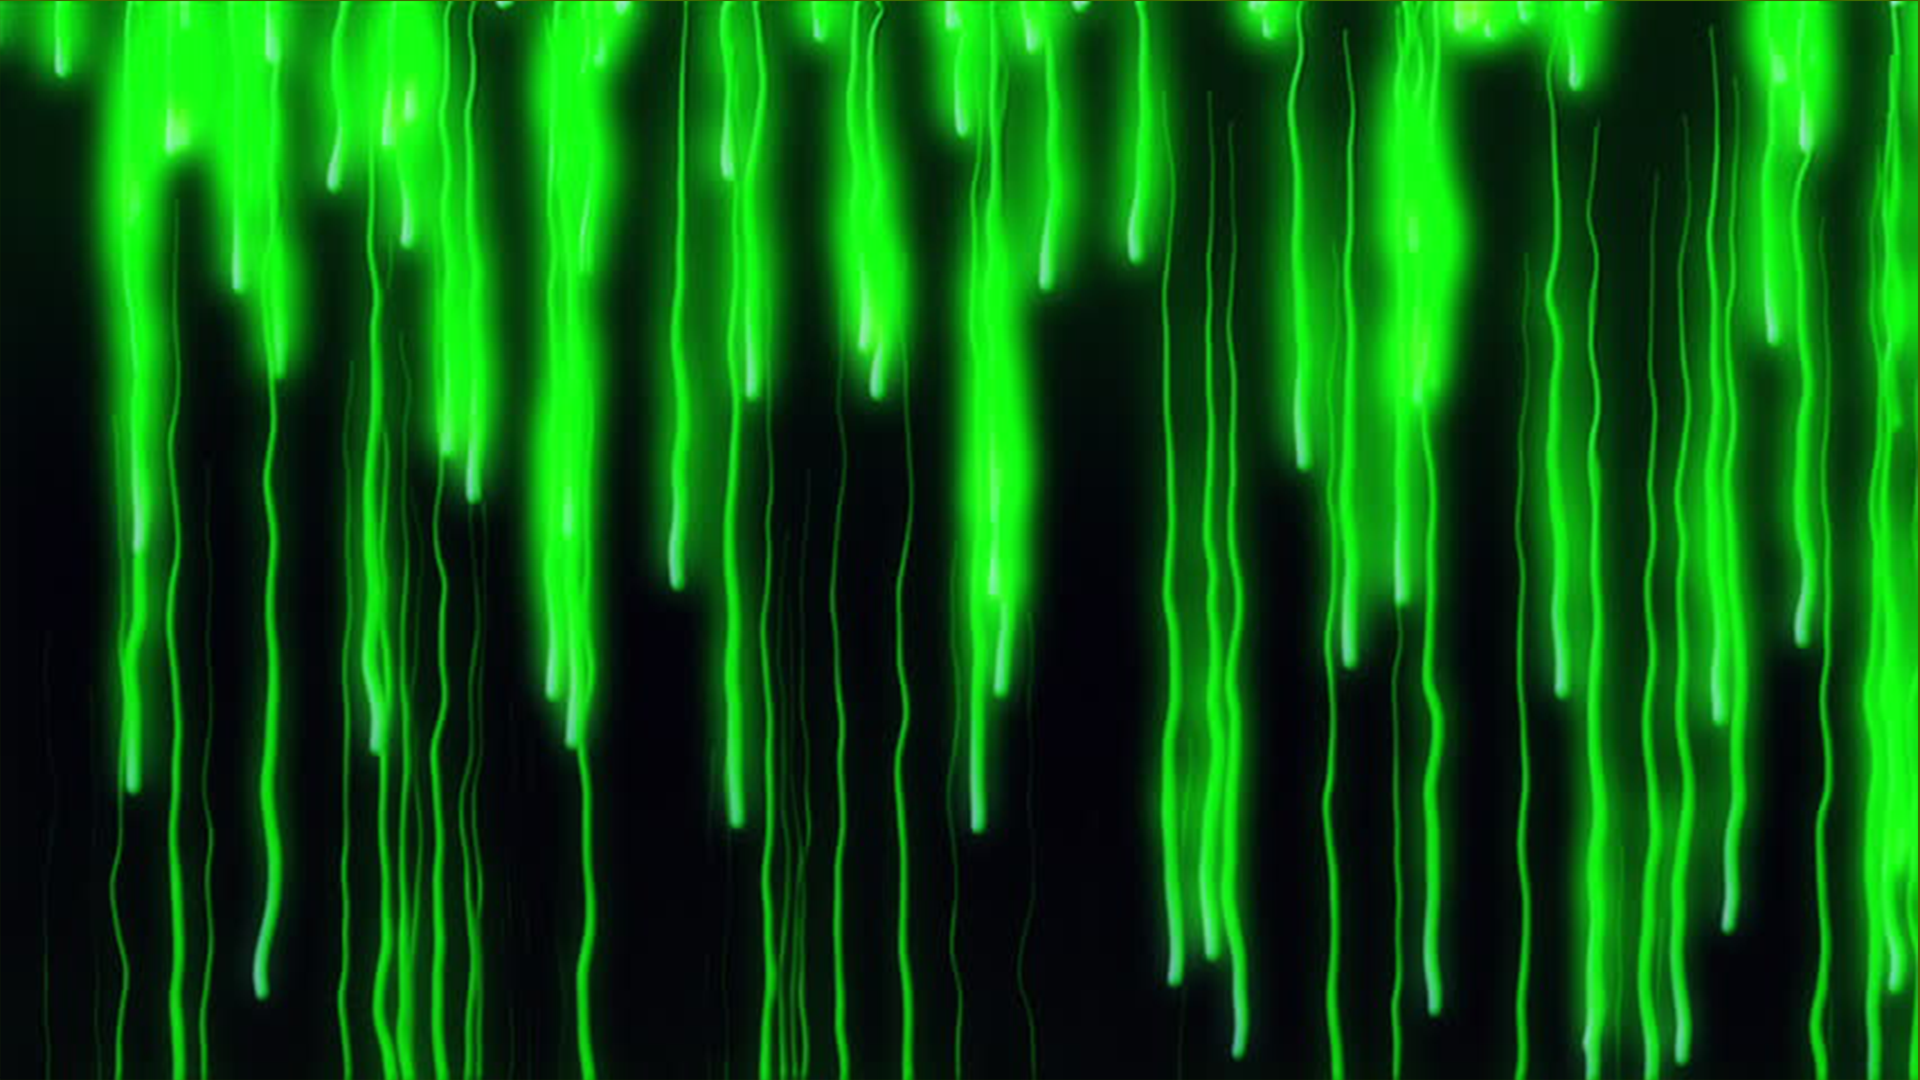
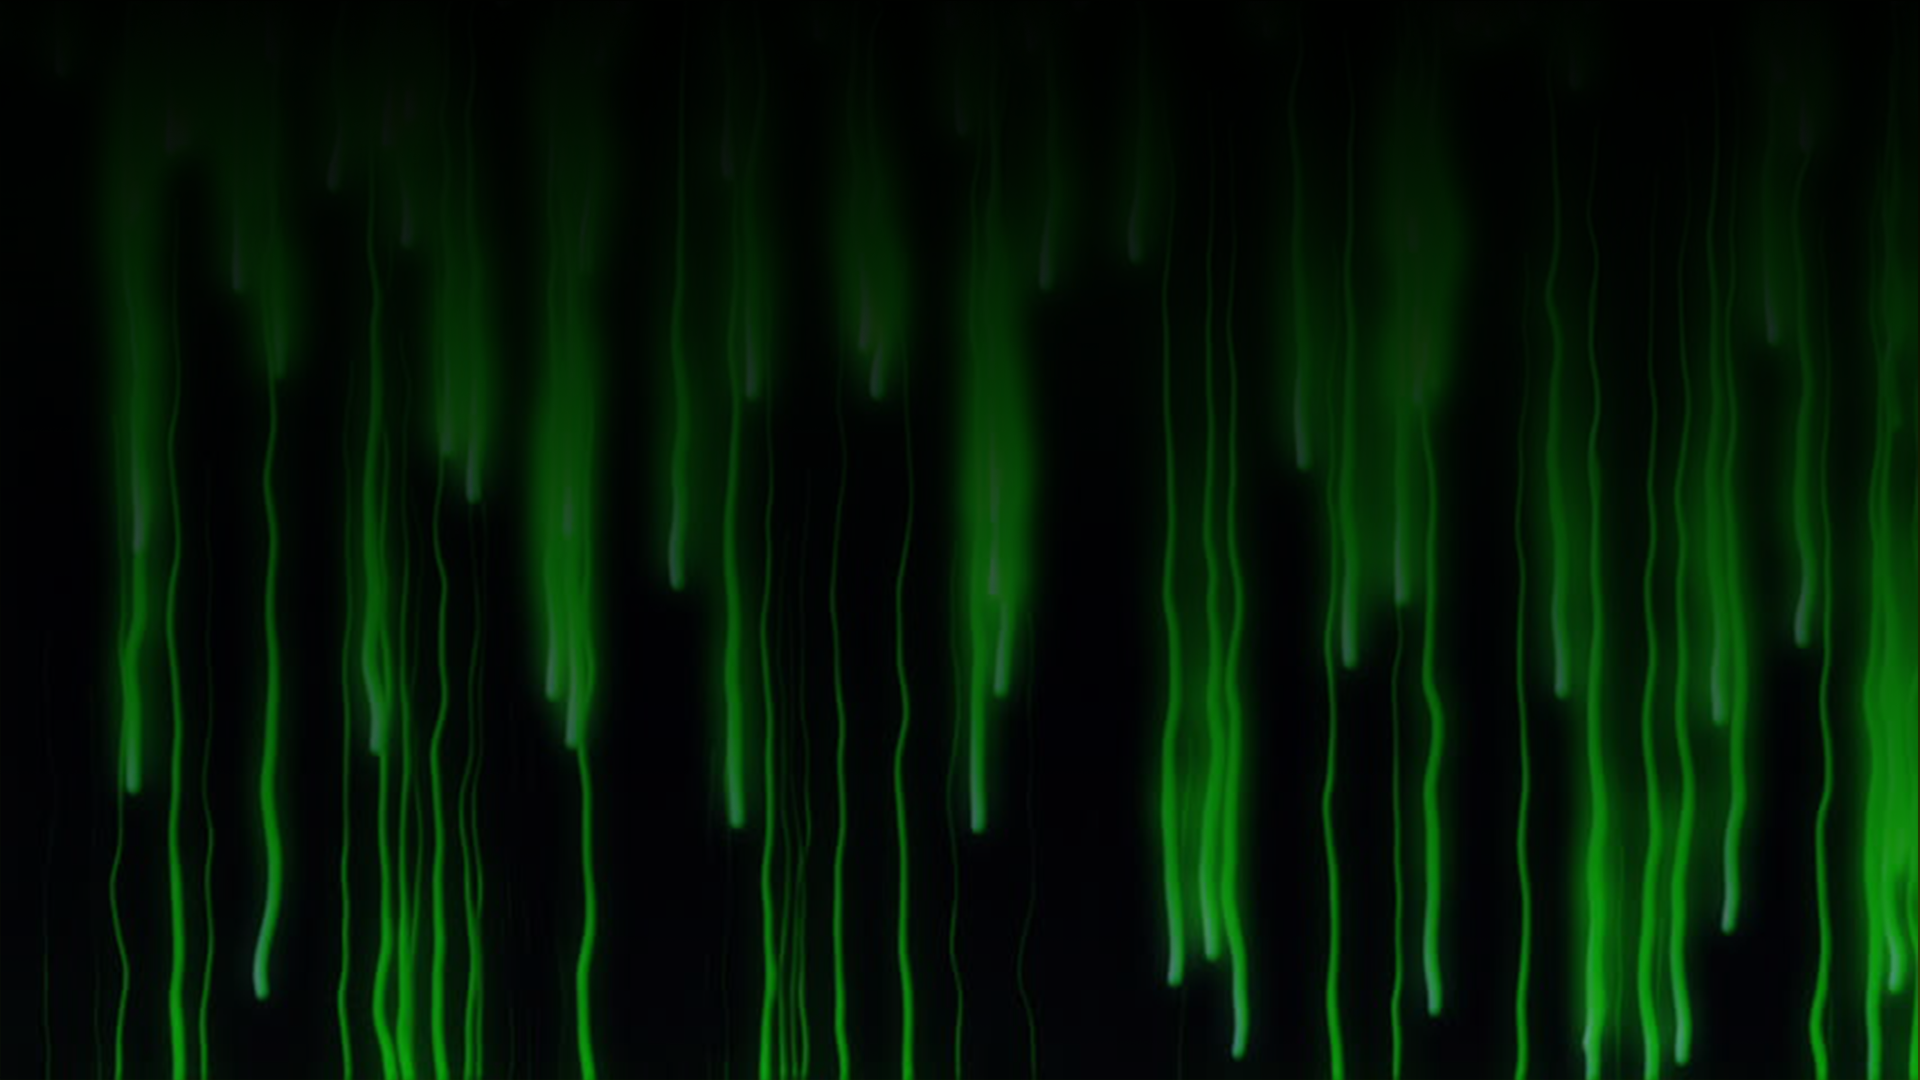
update visuals/content

diff --git a/index.html b/index.html
@@ -16,36 +16,21 @@
             <li class="item"><a href="#">Home</a></li>
             <li class="item"><a href="#">About</a></li>
             <li class="item"><a href="#">Games</a></li>
-            <li class="item"><a href="#">Contact</a>
             </li>
-            <li class="item button"><a href="#">Log In</a></li>
-            <li class="item button secondary"><a href="#">Sign Up</a></li>
+            <li class="item button"><a href="#">Leaderboards</a></li>
+            <li class="item button secondary"><a href="#">Contact</a></li>
             <li class="toggle"><a href="#"><i class="fas fa-bars"></i></a></li>
         </ul>
     </nav>
     <section>
-        <H1>Home</H1>
+        <H1><a href="https://basekkelenkamp.github.io/prodigy/" class="button">Play Prodigy Now!</a></H1>
         <div class="flex-container">
             <div class="content">
-                <p>Lorem ipsum dolor sit amet, consectetur adipiscing elit. Mauris quam ex, 
-                fermentum eget quam ac, finibus ultricies elit. Vivamus mauris dui, mattis at nisl nec, 
-                dapibus volutpat urna. Morbi tortor elit, semper nec neque vel, rutrum convallis tellus. 
-                Duis dictum rutrum mauris a semper. Curabitur mattis vulputate pulvinar. 
-                Suspendisse facilisis lacus quis lorem gravida aliquam. 
-                Sed sed nisl sit amet turpis rhoncus hendrerit ac vel velit. 
-                Mauris ut felis ac quam tristique tempor. Mauris sagittis mauris a sem bibendum laoreet. 
-                Curabitur fermentum velit luctus semper vestibulum. Nam eget nisl lorem.
+                <h2>What is Prodigy?</h2>
+                <p>Prodigy is a browser based tower defense game! Your goal is to defend the home base from waves of evil slime monsters.
+                The land of Winehaven is being terrorized by these monster like creatures & they are out for blood. 
+                Strategically place different types of towers to defend yourself from the waves of continuously stronger growing enemies..
 
-                Maecenas aliquet tellus id nunc dignissim, a cursus erat pharetra. Aenean congue, 
-                tellus rhoncus consequat mollis, orci dui consectetur justo, non vestibulum nulla sem in dui. 
-                Donec at lacus sit amet dui pharetra egestas convallis sed eros. Mauris orci nisi, 
-                tempor id risus sit amet, bibendum pretium enim. Proin cursus felis sed nibh scelerisque, 
-                sit amet euismod sem pharetra.
-                Lorem ipsum dolor sit amet, consectetur adipiscing elit. Mauris quam ex, 
-                fermentum eget quam ac, finibus ultricies elit. Vivamus mauris dui, mattis at nisl nec, 
-                dapibus volutpat urna. Morbi tortor elit, semper nec neque vel, rutrum convallis tellus. 
-                Duis dictum rutrum mauris a semper. Curabitur mattis vulputate pulvinar. 
-                Suspendisse facilisis lacus quis lorem gravida aliquam. 
                 Sed sed nisl sit amet turpis rhoncus hendrerit ac vel velit. 
                 Mauris ut felis ac quam tristique tempor. Mauris sagittis mauris a sem bibendum laoreet. 
                 Curabitur fermentum velit luctus semper vestibulum. Nam eget nisl lorem.
@@ -53,6 +38,7 @@
              </p>
             </div>
             <div class="content">
+                <h2>How to Play</h2>
                 <p>Lorem ipsum dolor sit amet, consectetur adipiscing elit. Mauris quam ex, 
                     fermentum eget quam ac, finibus ultricies elit. Vivamus mauris dui, mattis at nisl nec, 
                     dapibus volutpat urna. Morbi tortor elit, semper nec neque vel, rutrum convallis tellus. 

diff --git a/css/style.css b/css/style.css
@@ -3,14 +3,44 @@
     box-sizing: border-box;
     padding: 0;
     margin: 0;
+    font-family: monospace;
 }
 h1 {
     color: white;
     text-align: center;
     font-size: 5vw;
 }
+
+h2 {
+    text-align: center;
+    color: white;
+    background-color: rgb(58, 8, 8);
+    border: 7.5px black solid;
+    border-radius: 15px;
+    margin-bottom: 1vw;
+}
 p {
     color: white;
+}
+
+a.button {
+    -webkit-appearance: button;
+    -moz-appearance: button;
+    appearance: button;
+    padding: 7.5px 15px;
+    background: rgb(44, 6, 6);
+    border: 10px black solid;
+    border-radius: 20px;
+    margin: 5vw;
+    
+    text-decoration: none;
+    color: initial;
+}
+
+a.button:hover {
+    text-decoration: none;
+    background: rgb(77, 10, 10);
+    border-color: rgb(39, 2, 2);
 }
 
 
@@ -19,7 +49,7 @@ body {
     font-family: sans-serif;
 }
 nav {
-    background: green;
+    background: black;
     padding: 5px 20px;
 }
 ul {
@@ -80,7 +110,7 @@ a:hover {
 }
 body{
     /* Set backround image */
-    background-image: url(../img/slime.jpg);
+    background-image: url(../img/slime.png);
     /* Let the background image cover the whole page */
     background-size: cover;
     /* Do not let the background repeat, only one time the image is shown */
@@ -161,7 +191,7 @@ body{
         color: #ddd;
     } 
     body{
-        background-image: url(../img/slime.jpg);
+        background-image: url(../img/slime.png);
         background-size: cover;
         background-repeat: no-repeat;
         background-attachment: fixed;
@@ -217,7 +247,7 @@ body{
         padding-right: 0;
     }
     body{
-        background-image: url(../img/slime.jpg);
+        background-image: url(../img/slime.png);
         background-size: cover;
         background-repeat: no-repeat;
         background-attachment: fixed;
